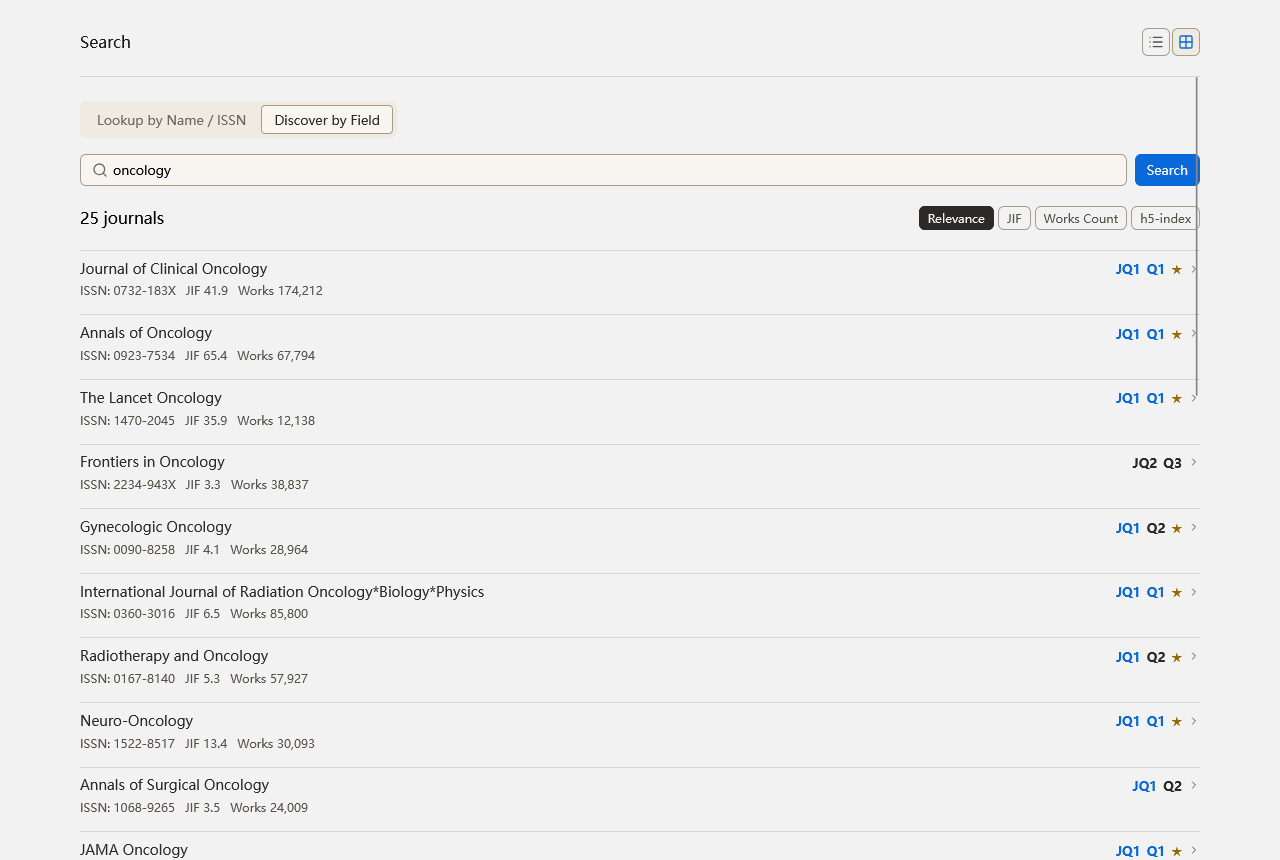
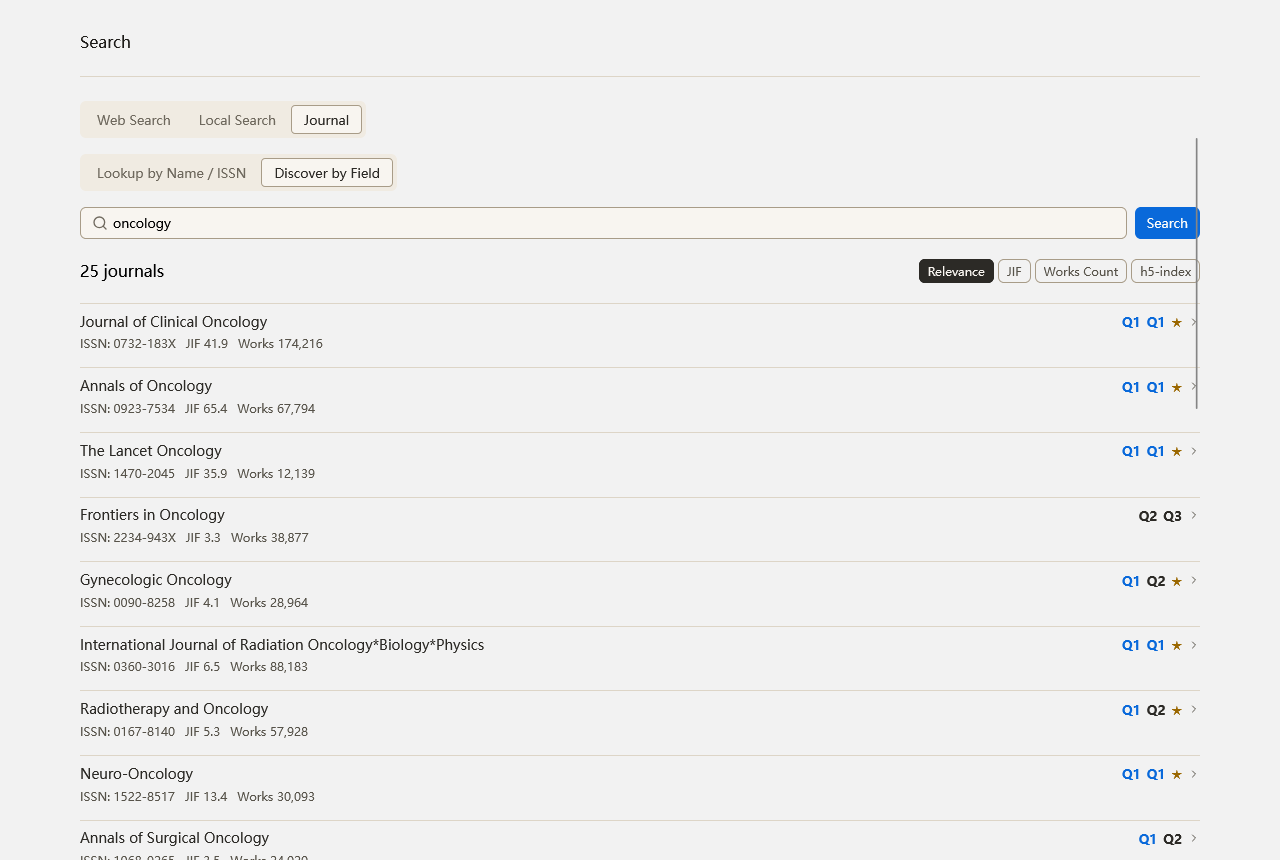
docs(readme): 三张截图对齐 v1.2.0 界面——三段域 tab、导入目标下拉、无前缀分区徽章
- search-results-en：域切换器已是页内三段 tab（右上图标对钮退役），工具栏
  带新的「Follow main-window selection」导入目标下拉
- journal-discover-en：行尾徽章为现行无前缀样式（JIF 分区不再截断 J 字母）
- journal-metrics-en：内容同前，页头同步更新
- 三张同为 1280×860；文献图出自 hub-visual-search 首用例，期刊两张出自
  新增的 zz-readme-shots 生成器（复用同款 en-US 强制 + drawWindow 机制，
  目录名 zz- 前缀使整跑时 locale 强制压轴不泄漏）

diff --git a/tests/zotero/zz-readme-shots/zz-readme-shots.spec.js b/tests/zotero/zz-readme-shots/zz-readme-shots.spec.js
@@ -1,0 +1,318 @@
+/**
+ * zz-readme-shots — README 期刊截图生成器（docs/screenshots/ 的期刊两张）。
+ *
+ * 复用 hub-visual-search 的机制（en-US locale 强制 + chrome 特权 drawWindow
+ * 整窗 PNG），输出落 sdt-out/readme/，人工核验后拷入 docs/screenshots/。
+ * 文献结果图由 hub-visual-search 的首个用例产出（hub-visual-literature.png）。
+ *
+ * 目录名 zz- 前缀是刻意的：整跑套件时按字母序压轴，before() 的 locale
+ * 强制（after() 恢复）不泄漏给中间的中文断言套件。
+ */
+describe("z-search readme screenshots (journal tab, en-US)", function () {
+  this.timeout(300000);
+
+  const OUT_DIR = "D:\\github_code\\z-search\\tests\\zotero\\sdt-out\\readme";
+  const OUTPUTS = {};
+
+  let hubWindowManager;
+  let hubWin;
+
+  function reportError(name, e) {
+    const reason = e?.message != null ? String(e.message) : String(e);
+    throw {
+      message: `[readme-shots][${name}] ${reason}\n${e?.stack || ""}`.slice(
+        0,
+        1500,
+      ),
+    };
+  }
+
+  async function ensureOutDir() {
+    try {
+      await IOUtils.makeDirectory(OUT_DIR);
+    } catch {
+      /* 已存在 */
+    }
+    return !!(await IOUtils.exists(OUT_DIR));
+  }
+
+  function hubDoc() {
+    const iframe = hubWin?.document?.getElementById("zsearch-hub-iframe");
+    return iframe?.contentDocument || null;
+  }
+
+  function hubRoot() {
+    return hubDoc()?.getElementById("root") || null;
+  }
+
+  function hubWin2() {
+    return hubWin?.document?.getElementById("zsearch-hub-iframe")
+      ?.contentWindow;
+  }
+
+  function findBtn(textRe) {
+    const root = hubRoot();
+    return (
+      Array.from(root?.querySelectorAll("button") || []).find((b) =>
+        textRe.test((b.textContent || "").trim()),
+      ) || null
+    );
+  }
+
+  async function waitFor(pred, timeoutMs) {
+    const deadline = Date.now() + timeoutMs;
+    while (Date.now() < deadline) {
+      const v = pred();
+      if (v) return v;
+      await Zotero.Promise.delay(500);
+    }
+    return pred();
+  }
+
+  async function openHubReady() {
+    await hubWindowManager.openHub("search");
+    const wm = Cc["@mozilla.org/appshell/window-mediator;1"].getService(
+      Ci.nsIWindowMediator,
+    );
+    const deadline = Date.now() + 15000;
+    while (Date.now() < deadline) {
+      hubWin = wm.getMostRecentWindow("zsearch:hub");
+      if (hubWin && !hubWin.closed && hubRoot()?.querySelector("input")) break;
+      await Zotero.Promise.delay(300);
+    }
+    if (!(hubWin && hubRoot()?.querySelector("input"))) {
+      throw { message: "[readme-shots] hub window/input not ready" };
+    }
+    // README 尺寸口径：innerWidth×innerHeight = 1280×860（与 docs 里旧图
+    // 逐像素同尺寸）。openDialog 的 width/height 是外框尺寸，按实测差值
+    // 校正一次。
+    const dw = hubWin.innerWidth - 1280;
+    const dh = hubWin.innerHeight - 860;
+    if (dw !== 0 || dh !== 0) hubWin.resizeTo(1280 + dw, 860 + dh);
+    await Zotero.Promise.delay(800);
+  }
+
+  /** React 受控输入设值 + 点「搜索」（pane 内寻钮，keep-alive 防误配）。 */
+  async function runUiSearch(query, placeholderRe) {
+    const root = hubRoot();
+    const input = await waitFor(() => {
+      const i = Array.from(root.querySelectorAll("input") || []).find(
+        (x) =>
+          placeholderRe.test(x.placeholder || "") && x.offsetParent !== null,
+      );
+      return i || null;
+    }, 15000);
+    if (!input) {
+      throw {
+        message: `[readme-shots] input not visible for ${placeholderRe}`,
+      };
+    }
+    const win = hubWin2();
+    const setter = Object.getOwnPropertyDescriptor(
+      win.HTMLInputElement.prototype,
+      "value",
+    ).set;
+    setter.call(input, query);
+    input.dispatchEvent(new win.Event("input", { bubbles: true }));
+    await Zotero.Promise.delay(400);
+    let anc = input.parentElement;
+    let btn = null;
+    while (anc && anc !== root) {
+      btn = Array.from(anc.querySelectorAll(":scope > * button")).find(
+        (b) =>
+          /^(Search|搜索)$/.test((b.textContent || "").trim()) && !b.disabled,
+      );
+      if (btn) break;
+      anc = anc.parentElement;
+    }
+    if (btn) {
+      btn.click();
+      return "clicked";
+    }
+    input.dispatchEvent(
+      new win.KeyboardEvent("keydown", {
+        key: "Enter",
+        bubbles: true,
+        cancelable: true,
+      }),
+    );
+    return "enter";
+  }
+
+  /** chrome 特权 drawWindow：整窗栅格 → PNG 落盘。 */
+  async function screenshotHub(name) {
+    const doc = hubWin.document;
+    const w = hubWin.innerWidth;
+    const h = hubWin.innerHeight;
+    const canvas = doc.createElementNS(
+      "http://www.w3.org/1999/xhtml",
+      "canvas",
+    );
+    canvas.width = w;
+    canvas.height = h;
+    canvas.getContext("2d").drawWindow(hubWin, 0, 0, w, h, "rgb(255,255,255)");
+    const b64 = canvas.toDataURL("image/png").split(",")[1];
+    const bin = Uint8Array.from(atob(b64), (c) => c.charCodeAt(0));
+    await ensureOutDir();
+    const path = PathUtils.join(OUT_DIR, name);
+    await IOUtils.write(path, bin);
+    OUTPUTS[name] = path;
+  }
+
+  // ── locale 强制（同 hub-visual-search 的 before/after 机制）──
+  let origRequestedLocales = null;
+  let origZoteroLocale = null;
+
+  function localeService() {
+    return globalThis.Services
+      ? globalThis.Services.locale
+      : Cc["@mozilla.org/intl/localeservice;1"].getService(
+          Ci.mozILocaleService,
+        );
+  }
+
+  function addonInstance() {
+    return Zotero.ZSearch ?? globalThis.addon ?? null;
+  }
+
+  function invalidateLocaleSnapshot() {
+    const inst = addonInstance();
+    if (inst?.data?.locale) {
+      delete inst.data.locale.cacheSnapshot;
+      try {
+        const Loc = globalThis.Localization;
+        if (Loc) {
+          inst.data.locale.current = new Loc(
+            [
+              "zsearch-addon.ftl",
+              "zsearch-preferences.ftl",
+              "zsearch-tracking.ftl",
+            ],
+            true,
+          );
+        }
+      } catch {
+        /* 保留旧实例 */
+      }
+    }
+  }
+
+  before(async function () {
+    try {
+      const ls = localeService();
+      origRequestedLocales = ls.requestedLocales;
+      ls.requestedLocales = ["en-US"];
+      origZoteroLocale = Zotero.locale;
+      Zotero.locale = "en-US";
+      invalidateLocaleSnapshot();
+      const mod = await import("../../../src/ui/hub/HubWindowManager.js");
+      hubWindowManager = mod.hubWindowManager;
+      if (!(await ensureOutDir())) this.skip();
+    } catch (e) {
+      reportError("before", e);
+    }
+  });
+
+  after(function () {
+    try {
+      if (origRequestedLocales) {
+        try {
+          localeService().requestedLocales = origRequestedLocales;
+        } catch {
+          /* best-effort */
+        }
+        Zotero.locale = origZoteroLocale;
+        invalidateLocaleSnapshot();
+      }
+      hubWindowManager?.closeAll();
+    } catch {
+      /* best-effort */
+    }
+  });
+
+  it("journal metric card with local predatory flag", async function () {
+    try {
+      await openHubReady();
+
+      // 期刊域：三段 tab 行的文字钮（en-US 渲染 Journal）
+      const journalTab = await waitFor(
+        () => findBtn(/^(Journal|期刊)$/),
+        15000,
+      );
+      if (!journalTab) {
+        reportError("journal-metric", { message: "journal tab missing" });
+      }
+      journalTab.click();
+      await Zotero.Promise.delay(1500);
+
+      const drive = await runUiSearch(
+        "Academic Exchange Quarterly",
+        /journal name|ISSN|刊名/i,
+      );
+
+      // 等本地掠夺性徽章（metric 查证会 best-effort 拉被墙 OpenAlex）
+      const badge = await waitFor(() => {
+        return (
+          Array.from(
+            hubDoc()?.querySelectorAll("button, span, div") || [],
+          ).find(
+            (n) =>
+              n.children.length === 0 &&
+              /掠夺性|predatory/i.test(n.textContent || ""),
+          ) || null
+        );
+      }, 150000);
+      badge?.scrollIntoView?.({ block: "center" });
+      await Zotero.Promise.delay(1200);
+      if (!badge) {
+        reportError("journal-metric", { message: "predatory badge missing" });
+      }
+
+      await screenshotHub("journal-metrics-en.png");
+      await Zotero.File.putContentsAsync(
+        PathUtils.join(OUT_DIR, "journal-metrics.json"),
+        JSON.stringify(
+          { drive, badge: (badge.textContent || "").trim() },
+          null,
+          2,
+        ),
+      );
+    } catch (e) {
+      reportError("journal-metric", e);
+    }
+  });
+
+  it("journal discover list for a field", async function () {
+    try {
+      const segBtn = findBtn(/discover by field|按领域发现/i);
+      if (!segBtn) {
+        reportError("journal-discover", { message: "discover toggle missing" });
+      }
+      segBtn.click();
+      await Zotero.Promise.delay(1000);
+
+      await runUiSearch("oncology", /research field|研究方向/i);
+
+      // 等 discover 行列表（行内带 ISSN 文本）
+      const rows = await waitFor(() => {
+        const doc = hubDoc();
+        if (!doc) return 0;
+        return Array.from(doc.querySelectorAll("div, li, span")).filter((n) =>
+          /^ISSN[:：]/.test((n.textContent || "").trim()),
+        ).length;
+      }, 150000);
+      await Zotero.Promise.delay(1500);
+      if (!rows) {
+        reportError("journal-discover", { message: "no discover rows" });
+      }
+
+      await screenshotHub("journal-discover-en.png");
+      await Zotero.File.putContentsAsync(
+        PathUtils.join(OUT_DIR, "journal-discover.json"),
+        JSON.stringify({ rows }, null, 2),
+      );
+    } catch (e) {
+      reportError("journal-discover", e);
+    }
+  });
+});
